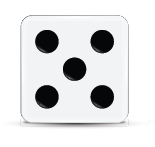
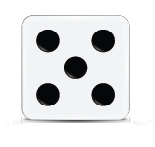
implement random event to on press elevatedButton

diff --git a/lib/app/dice_page/dice_page_content.dart b/lib/app/dice_page/dice_page_content.dart
@@ -1,10 +1,19 @@
+import 'dart:math';
+
 import 'package:flutter/material.dart';
 
-class DicePageContent extends StatelessWidget {
+class DicePageContent extends StatefulWidget {
   const DicePageContent({
     Key? key,
   }) : super(key: key);
 
+  @override
+  State<DicePageContent> createState() => _DicePageContentState();
+}
+
+class _DicePageContentState extends State<DicePageContent> {
+  int number = 1;
+  Random randomNumber = Random();
   @override
   Widget build(BuildContext context) {
     return Scaffold(
@@ -29,20 +38,34 @@ class DicePageContent extends StatelessWidget {
         child: Column(
           mainAxisAlignment: MainAxisAlignment.center,
           children: [
-            InkWell(
-              child: ClipRRect(
-                borderRadius: BorderRadius.circular(50.0),
-                child: Image.asset('images/dice1.png',
-                    width: 180.0, height: 180.0),
-              ),
+            Row(
+              mainAxisAlignment: MainAxisAlignment.center,
+              children: [
+                InkWell(
+                  child: ClipRRect(
+                    borderRadius: BorderRadius.circular(80.0),
+                    child: Image.asset('images/dice$number.png',
+                        width: 180.0, height: 180.0),
+                  ),
+                ),
+              ],
             ),
             const SizedBox(height: 70),
             ElevatedButton(
-              onPressed: () {},
-              child: Text(
-                'ROLL',
-              ),
-            ),
+                style: ElevatedButton.styleFrom(
+                    primary: const Color.fromARGB(255, 33, 99, 35),
+                    fixedSize: const Size(180, 80),
+                    shape: RoundedRectangleBorder(
+                        borderRadius: BorderRadius.circular(50))),
+                child: const Text(
+                  'ROLL',
+                  style: TextStyle(fontSize: 24),
+                ),
+                onPressed: () {
+                  setState(() {
+                    number = randomNumber.nextInt(6) + 1;
+                  });
+                }),
           ],
         ),
       ),
